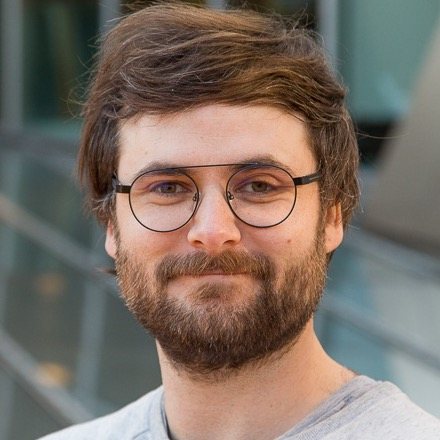
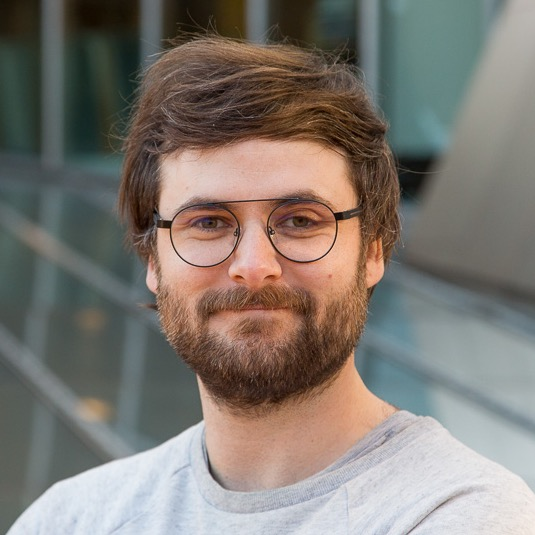
Loosen profile photo crop

diff --git a/index.html b/index.html
@@ -44,7 +44,7 @@
 
       <main>
         <h2 class="sr-only">About</h2>
-        <img src="milo-face.jpg" alt="Milo Phillips-Brown" class="profile" width="170" height="170">
+        <img src="milo-face.jpg?v=2" alt="Milo Phillips-Brown" class="profile" width="170" height="170">
         <p>I'm a Lecturer (Assistant Professor) in the Philosophy of Technology at the University of Edinburgh. I used to hold the same position at Oxford, and did my PhD at MIT. I'm a Senior Research Affiliate at the <a href="https://www.technomoralfutures.uk/" class="inline-link" target="_blank" rel="noopener noreferrer">Centre for Technomoral Futures</a>.</p>
         <ul class="dash">
           <li>Recent work: <a href="https://www.tandfonline.com/doi/full/10.1080/00048402.2026.2697031" class="inline-link" target="_blank" rel="noopener noreferrer">Algorithmic neutrality</a><br>(forthcoming in the <em>Australasian Journal of Philosophy</em>)</li>
